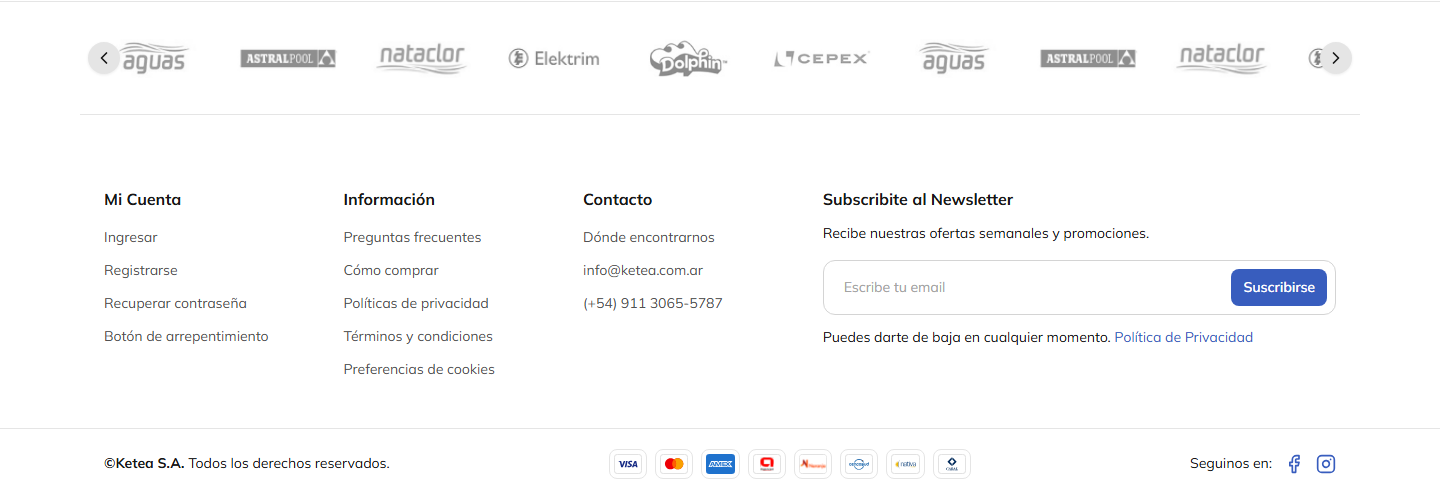
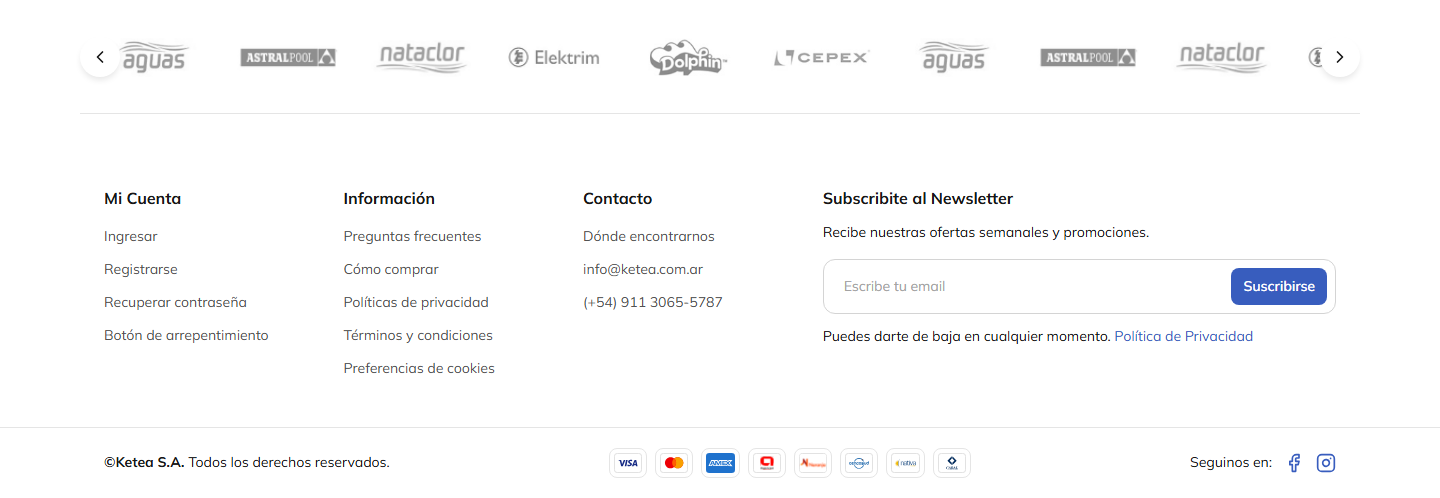
style: menos espacio en la portada, footer sin línea superior, botón Vista rápida con borde, favorito más claro y flechas de marcas

diff --git a/styles/patterns/brands-strip.css b/styles/patterns/brands-strip.css
@@ -9,8 +9,10 @@
   .brands__logo { width: auto; height: var(--space-12); opacity: .5; filter: grayscale(1); transition-property: filter, opacity; transition-duration: var(--duration-fast); transition-timing-function: var(--easing-standard); }
   .brands__item:hover .brands__logo { opacity: 1; filter: none; }
 
-  .brands__arrow { display: none; position: absolute; top: calc(50% - var(--space-4)); z-index: 1; transform: translateY(-50%); box-shadow: var(--shadow-sm); }
-  .brands__arrow--prev { left: var(--space-2); }
-  .brands__arrow--next { right: var(--space-2); }
+  .brands__arrow { display: none; position: absolute; top: calc(50% - var(--space-4)); z-index: 1; transform: translateY(-50%); }
+  /* Botón redondo de 40px, blanco y con sombra (más específico que la variante subtle del icon-btn) */
+  .brands__arrow.icon-btn { --icon-btn-bg: var(--color-surface-default); --icon-btn-bg-h: var(--color-surface-subtle); width: var(--space-10); height: var(--space-10); box-shadow: var(--shadow-md); }
+  .brands__arrow--prev { left: var(--space-0); }
+  .brands__arrow--next { right: var(--space-0); }
   @media (min-width: 768px) { .brands__arrow { display: inline-flex; } }
 }

diff --git a/styles/patterns/product-card.css b/styles/patterns/product-card.css
@@ -18,6 +18,8 @@
   .product-card__photo-link { position: absolute; inset: var(--space-0); display: block; }
   .product-card__image { object-fit: contain; }
   .product-card__fav { position: absolute; top: var(--space-3); right: var(--space-3); }
+  /* Fondo más claro que el de la variante subtle (neutral-100); al hover vuelve al gris habitual */
+  .product-card__fav.icon-btn { --icon-btn-bg: var(--color-neutral-100); --icon-btn-bg-h: var(--color-surface-muted); }
   .product-card__fav[aria-pressed="true"] > svg { color: var(--color-feedback-error-solid); fill: currentColor; }
 
   /* "Vista rápida": aparece sobre la foto al pasar el mouse o enfocar con teclado; en pantallas táctiles queda siempre visible */
@@ -28,7 +30,8 @@
     display: inline-flex;
     align-items: center;
     gap: var(--space-2);
-    padding: var(--space-2-5) var(--space-6);
+    padding: var(--space-2) var(--space-4);
+    border: var(--border-width-sm) solid var(--color-border-brand);
     border-radius: var(--radius-full);
     background-color: var(--color-surface-default);
     box-shadow: var(--elevation-dropdown);

diff --git a/app/page.tsx b/app/page.tsx
@@ -21,7 +21,7 @@ export default function HomePage() {
 
       <ServiceBlocks items={SERVICES} />
 
-      <section className="max-w-7xl mx-auto px-4 md:px-6 py-14">
+      <section className="max-w-7xl mx-auto px-4 md:px-6 py-6">
         <SectionHeader title="Productos destacados" href="/productos" />
         <div className="grid grid-cols-2 md:grid-cols-4 lg:grid-cols-5 gap-2">
           {featured.map((product) => (
@@ -40,7 +40,7 @@ export default function HomePage() {
       </section>
 
       {nuevos.length > 0 && (
-        <section className="max-w-7xl mx-auto px-4 md:px-6 pb-14">
+        <section className="max-w-7xl mx-auto px-4 md:px-6 pb-6">
           <SectionHeader title="Bombas de calor" href="/productos?cat=Bombas de Calor" />
           <div className="grid grid-cols-2 md:grid-cols-4 lg:grid-cols-5 gap-2">
             {nuevos.map((product) => (

diff --git a/styles/patterns/footer.css b/styles/patterns/footer.css
@@ -1,7 +1,7 @@
 /* Footer del sitio (Figma: Footer). Grilla y espaciado en Tailwind dentro del componente; acá, superficie y tipografía.
    Cuatro columnas (cuenta, información, contacto, newsletter) y barra inferior con medios de pago y redes. */
 @layer components {
-  .footer { border-top: var(--border-width-sm) solid var(--color-border-default); background-color: var(--color-surface-default); color: var(--color-text-primary); }
+  .footer { background-color: var(--color-surface-default); color: var(--color-text-primary); }
   .footer--spaced { margin-top: var(--space-12); }
   /* Columnas: 1 en mobile, 2 en tablet; en desktop tres de 2/12 y el newsletter de 5/12, repartidas a lo ancho. */
   .footer__grid { display: grid; grid-template-columns: minmax(0, 1fr); gap: var(--space-8); padding-block: var(--space-10) var(--space-12); }

diff --git a/components/patterns/product-card.tsx b/components/patterns/product-card.tsx
@@ -45,7 +45,7 @@ export default function ProductCard({ product, titleAs: Title = "h3" }: { produc
           aria-label={favorite ? "Quitar de favoritos" : "Agregar a favoritos"}
           className={iconButtonClasses({ variant: "subtle", size: "sm", className: "product-card__fav" })}
         >
-          <Heart className="icon-md" aria-hidden="true" />
+          <Heart className="icon-md" strokeWidth={1} aria-hidden="true" />
         </button>
 
         <button type="button" onClick={() => openQuickView(product)} className="product-card__quick">

diff --git a/styles/patterns/service-blocks.css b/styles/patterns/service-blocks.css
@@ -1,6 +1,6 @@
 /* Bloques de servicio (Figma: Service blocks). Tarjeta con borde; cada ítem lleva una ilustración de 80px a la izquierda. */
 @layer components {
-  .service-blocks { padding-block: var(--space-8); }
+  .service-blocks { padding-block: var(--space-6); }
   .service-blocks__card {
     padding: var(--space-6);
     border: var(--border-width-sm) solid var(--color-border-default);

diff --git a/styles/patterns/promo-banner.css b/styles/patterns/promo-banner.css
@@ -44,5 +44,5 @@
   }
 
   /* Fondo de la sección de banners en la portada */
-  .promo-section { padding-block: var(--space-8); }
+  .promo-section { padding-block: var(--space-4); }
 }
